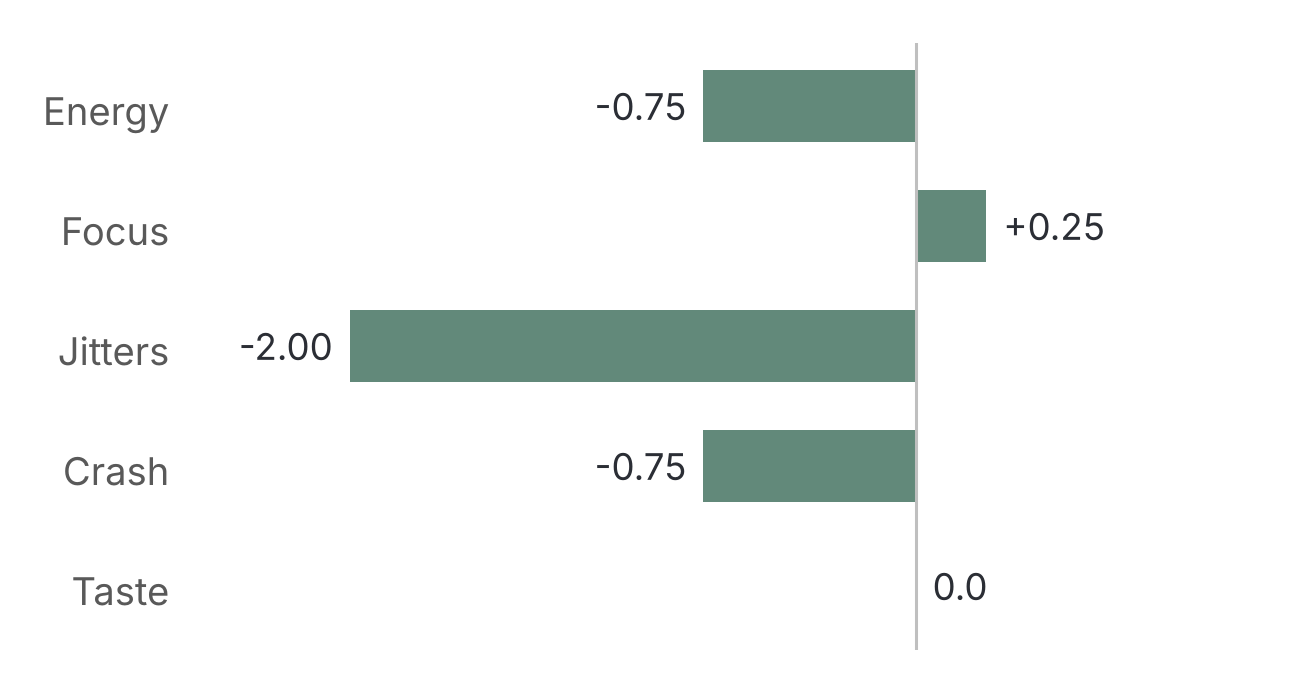
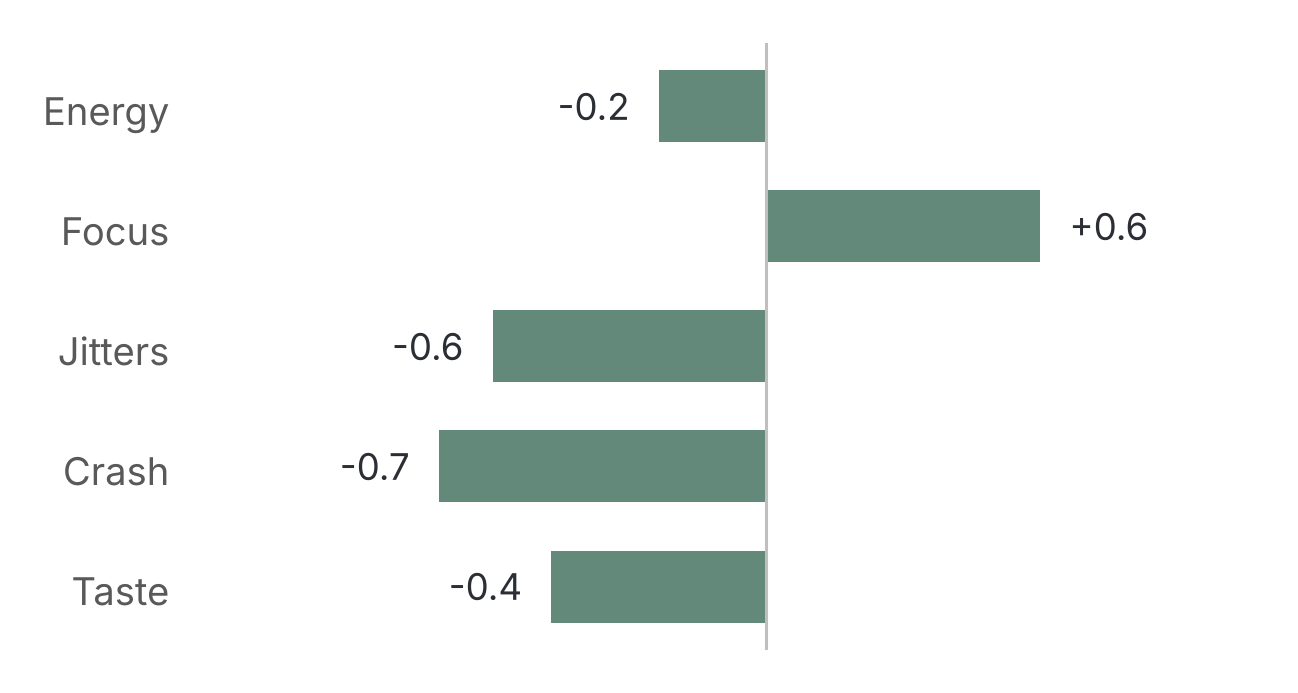
Update Round 1 functional test charts with all 9 testers
Adds the late check-ins and the newly logged drink orders, plus the
Gatorade control used by 3 testers.

Claude-Session: https://claude.ai/code/session_01B1HtuxLQZJwpo8bKngmbqv

diff --git a/research/functional-test-round1/README.md b/research/functional-test-round1/README.md
@@ -3,3 +3,5 @@
 Charts used in the "Clarity functional test: Round 1 results" Google Slides deck.
 Values come from the "Clarity functional test analysis (Round 1)" Google Sheet (Summary tab).
 Tester names are replaced with letters because this repository is public.
+
+Updated 2026-11-12 with all 9 testers (26 daily check-ins), including the Gatorade no-caffeine control used by 3 testers.
